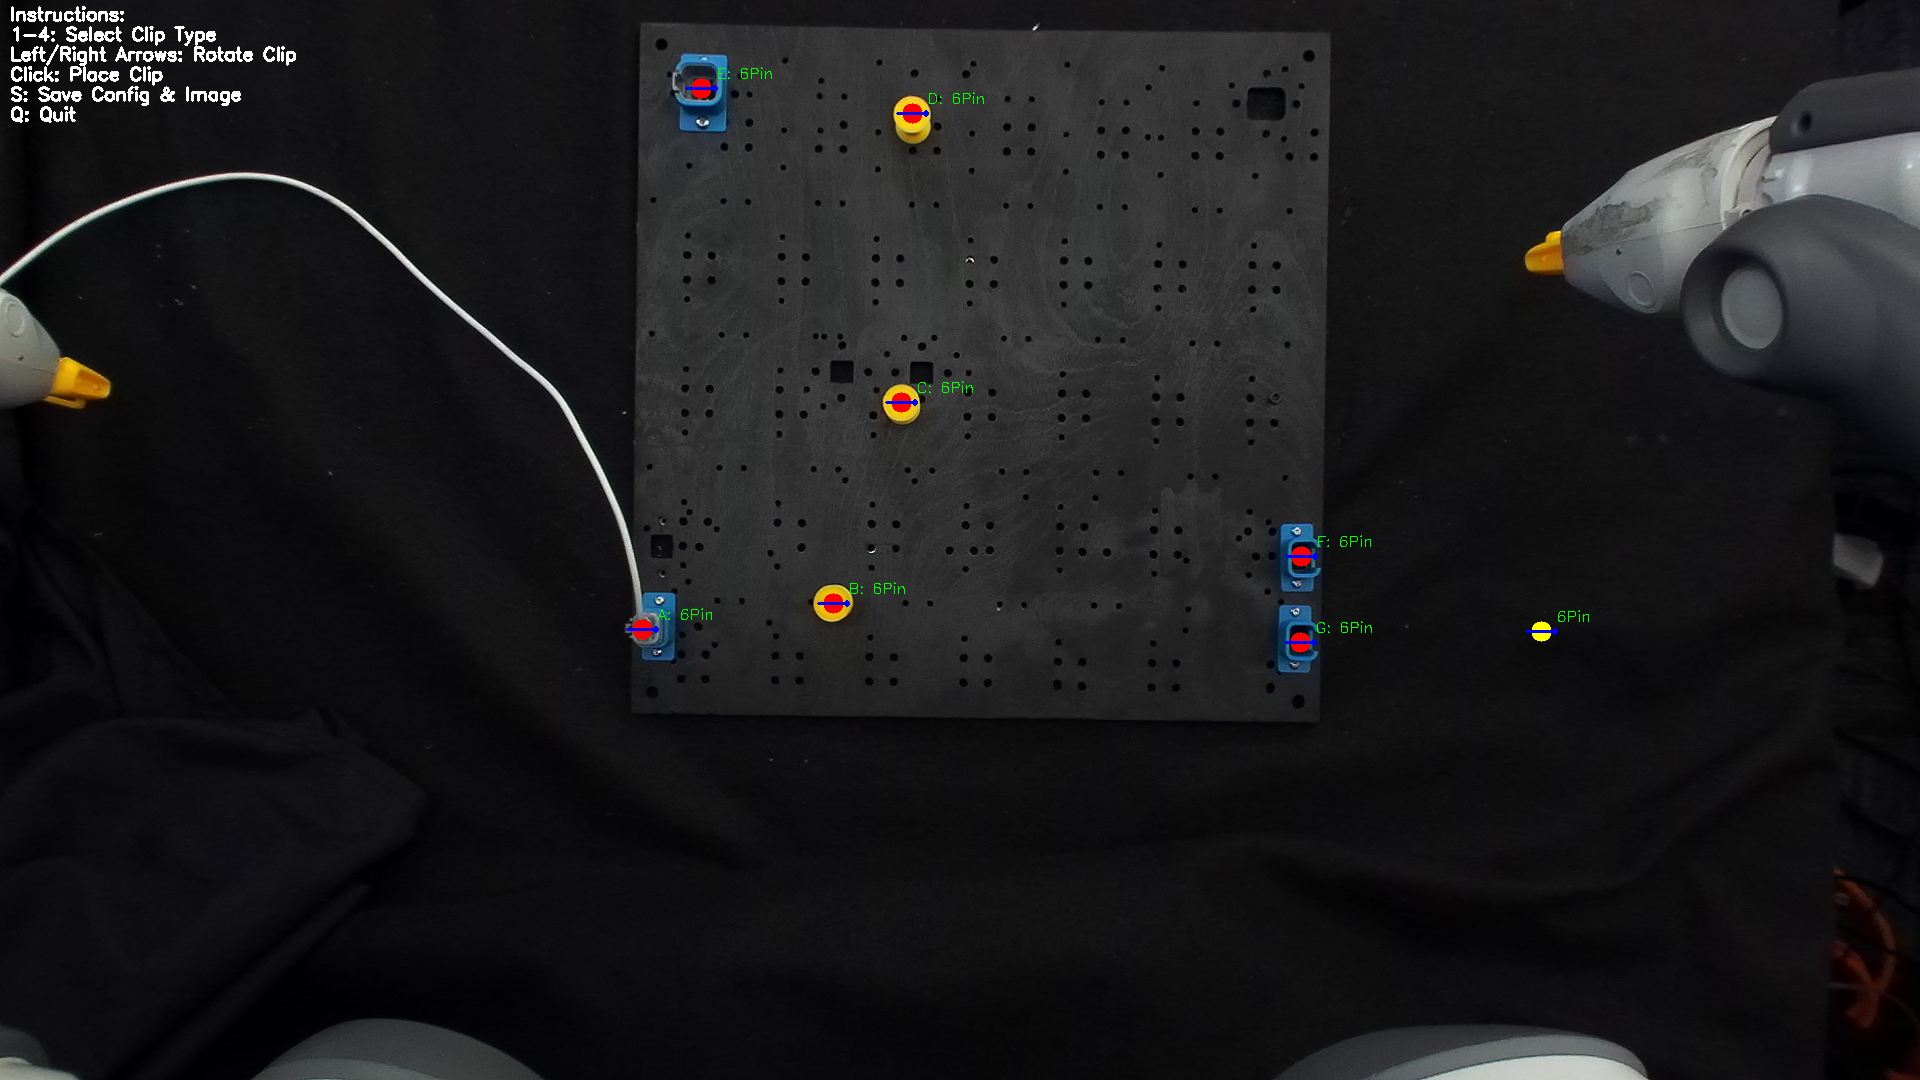
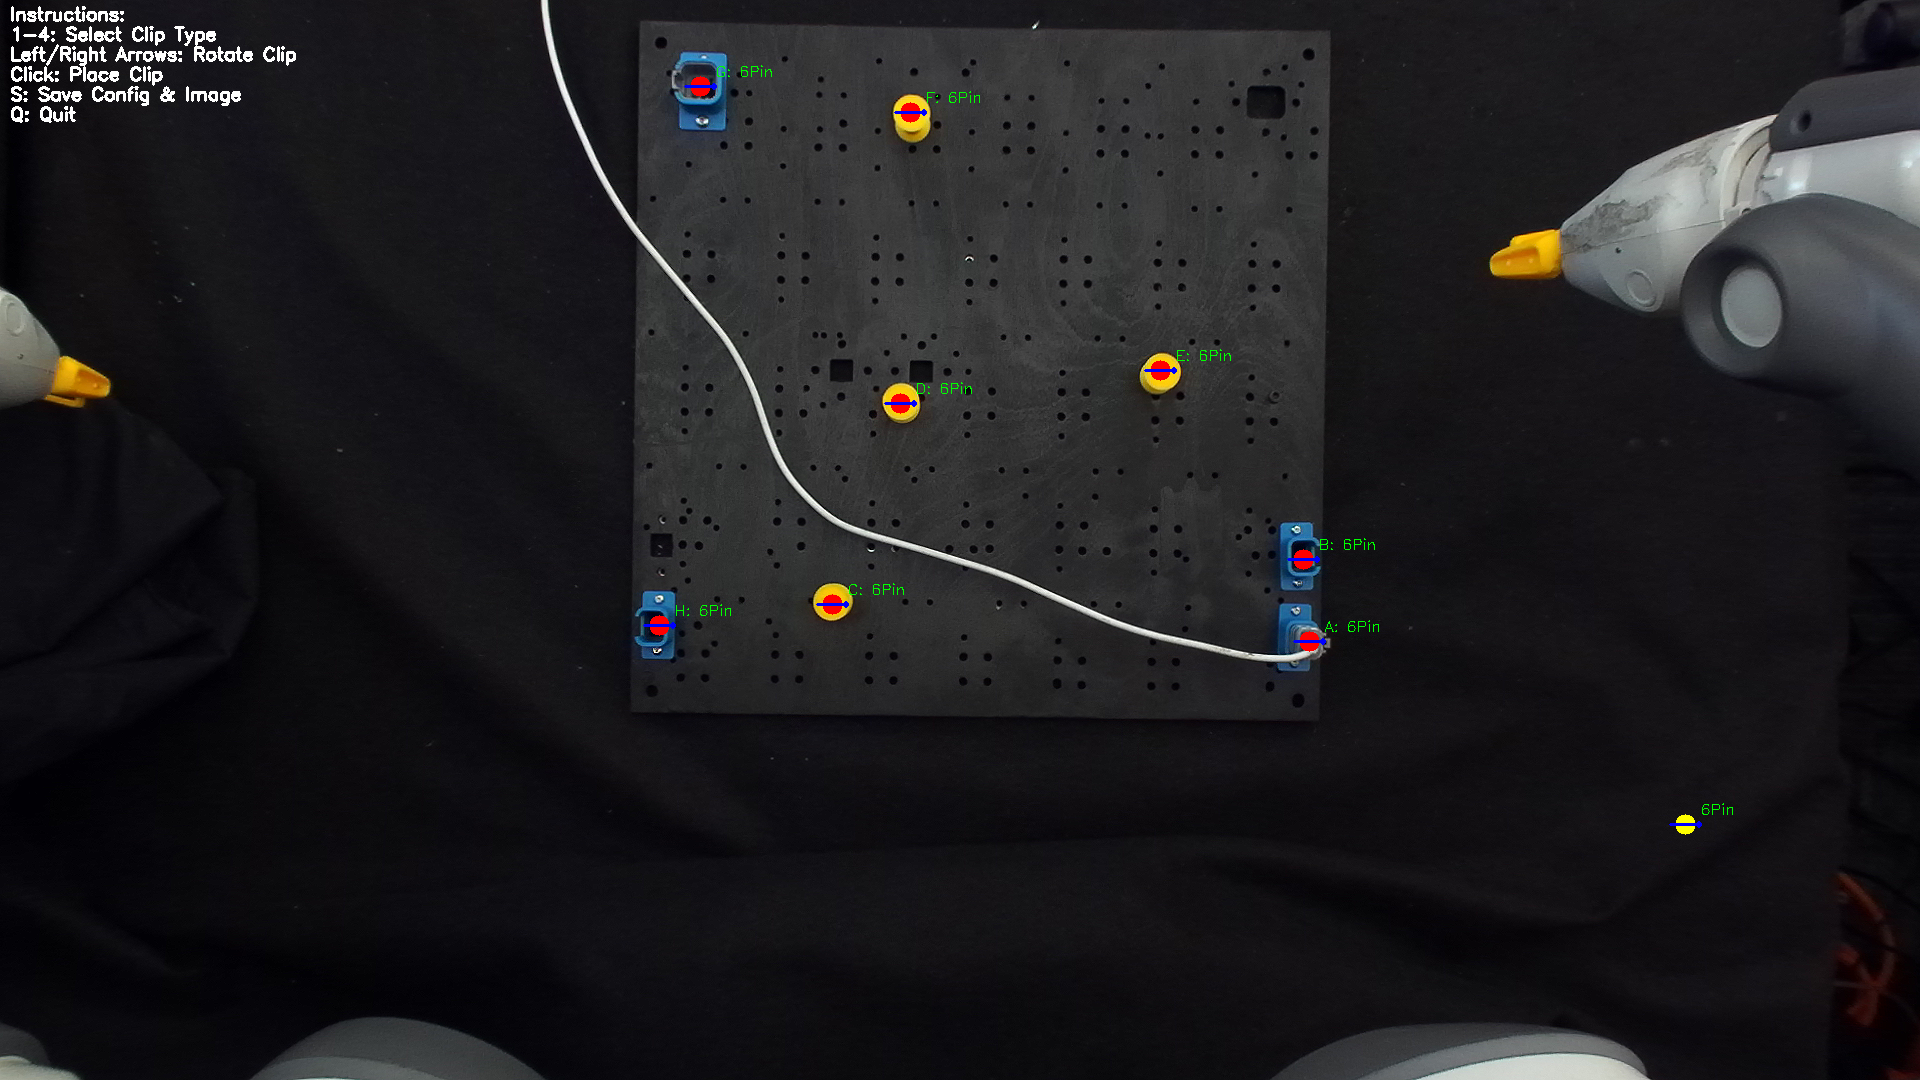
update

diff --git a/cable_routing/scripts/cable_routing_pipeline.py b/cable_routing/scripts/cable_routing_pipeline.py
@@ -15,17 +15,13 @@ def main(args: ExperimentConfig):
     routing = ["A", "C", "E"]
 
     env.route_cable(
-            routing, 
-            display=False, 
-            dual_arm=True,
-            primary_arm="left",
-            save_viz=False
-        )
-    
+        routing, display=False,
+         dual_arm=True, primary_arm="right", save_viz=False
+    )
+
     exit()
 
 
 if __name__ == "__main__":
     args = tyro.cli(ExperimentConfig)
     main(args)
-

diff --git a/cable_routing/env/ext_camera/brio_camera.py b/cable_routing/env/ext_camera/brio_camera.py
@@ -27,6 +27,7 @@ class BRIOSensor:
         self._is_running = False
         self._crop = crop
         self._inpaint = inpaint
+        
         self.video = video
 
         # Load configuration
